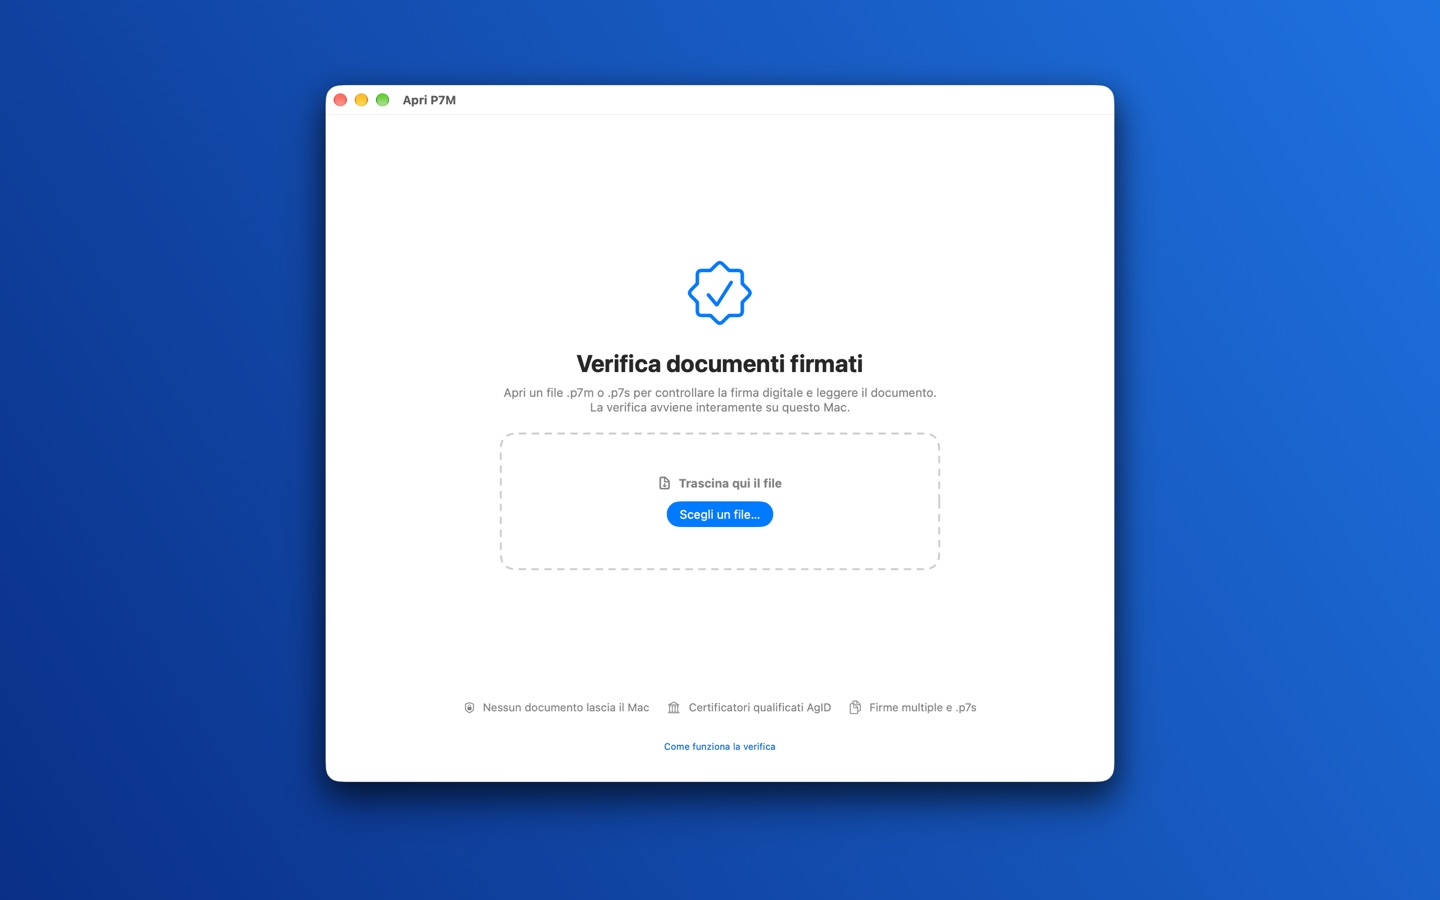
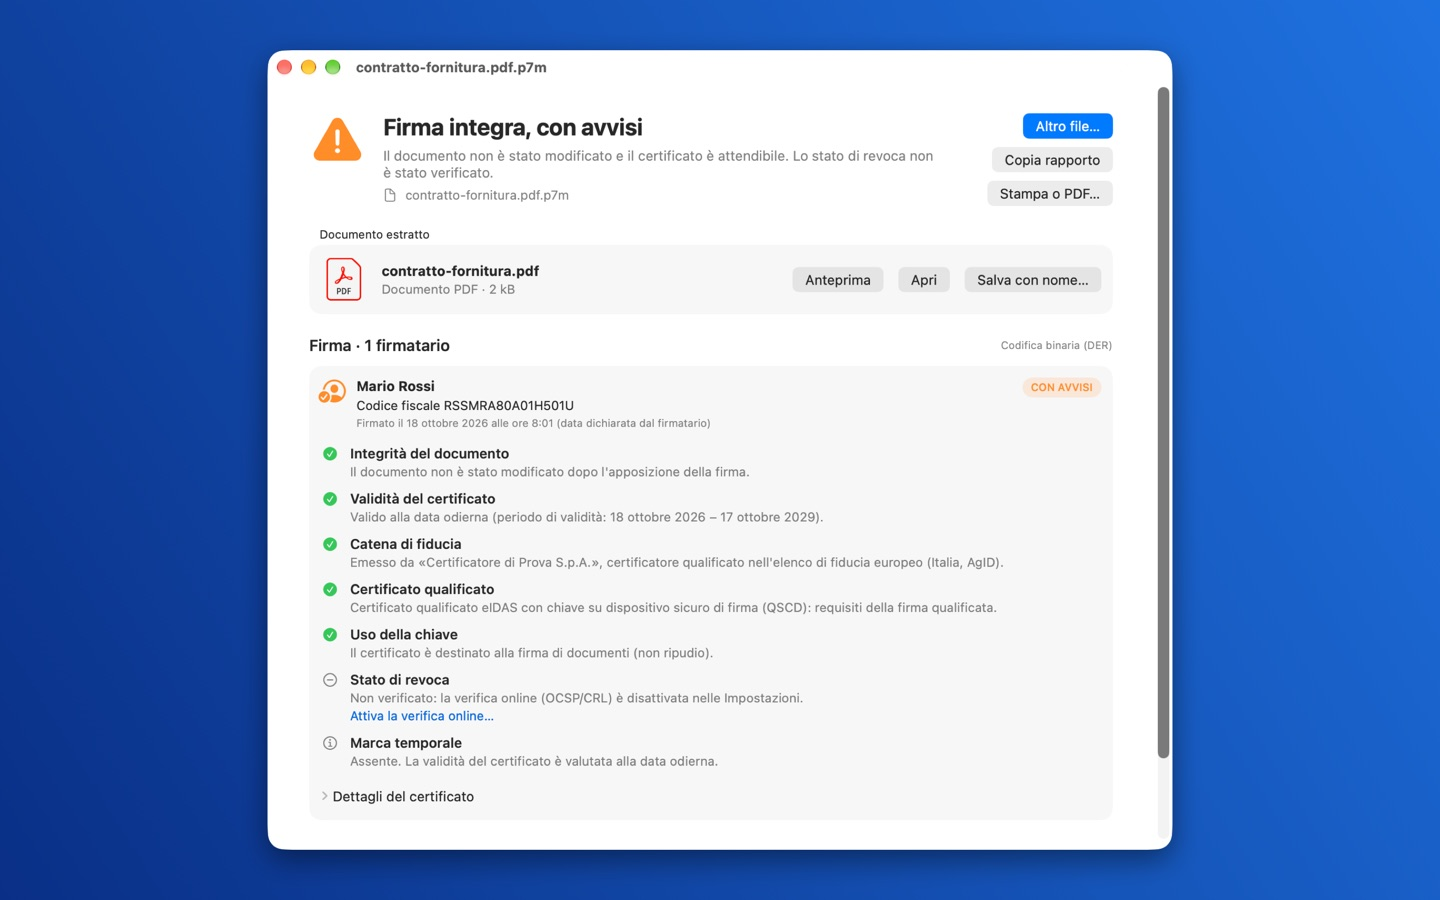
Apri P7M: screenshot di iPhone e iPad, immagine del Mac aggiornata

Changed region(s): [[0.1562, 0.0311, 0.8438, 0.9644]]

diff --git a/apri-p7m/fr/index.html b/apri-p7m/fr/index.html
@@ -44,6 +44,10 @@
 
   <h2>Sur iPhone et iPad</h2>
   <p>Touchez une pièce jointe .p7m dans Mail, Fichiers ou Messages : l'aperçu rapide affiche aussitôt le document contenu, avec le résultat de la signature en haut. Pour tous les contrôles et les détails du certificat, ouvrez le fichier dans Apri P7M avec Partager ; depuis Outlook, utilisez « Ouvrir dans… ». Sur iPad, vous pouvez aussi glisser le fichier dans la fenêtre.</p>
+  <div class="devices">
+    <img class="phone" src="../iphone.jpg" alt="Apri P7M sur iPhone : résultat de la vérification d'un contrat signé" loading="lazy">
+    <img class="tablet" src="../ipad.jpg" alt="Apri P7M sur iPad : facture électronique sous forme lisible" loading="lazy">
+  </div>
 
   <h2>Contrôles effectués</h2>
   <ul class="features">

diff --git a/apri-p7m/de/index.html b/apri-p7m/de/index.html
@@ -44,6 +44,10 @@
 
   <h2>Auf iPhone und iPad</h2>
   <p>Tippe in Mail, Dateien oder Nachrichten auf einen .p7m-Anhang: Die Übersicht zeigt sofort das enthaltene Dokument, oben mit dem Ergebnis der Signaturprüfung. Für alle Prüfungen und Zertifikatsdetails öffne die Datei über „Teilen“ in Apri P7M; in Outlook über „Öffnen in …“. Auf dem iPad kannst du die Datei auch ins Fenster ziehen.</p>
+  <div class="devices">
+    <img class="phone" src="../iphone.jpg" alt="Apri P7M auf dem iPhone: Prüfergebnis eines signierten Vertrags" loading="lazy">
+    <img class="tablet" src="../ipad.jpg" alt="Apri P7M auf dem iPad: elektronische Rechnung in lesbarer Form" loading="lazy">
+  </div>
 
   <h2>Durchgeführte Prüfungen</h2>
   <ul class="features">

diff --git a/apri-p7m/es/index.html b/apri-p7m/es/index.html
@@ -44,6 +44,10 @@
 
   <h2>En iPhone y iPad</h2>
   <p>Toca un adjunto .p7m en Mail, Archivos o Mensajes: la vista rápida muestra al instante el documento contenido, con el resultado de la firma arriba. Para todas las comprobaciones y los detalles del certificado, abre el archivo en Apri P7M con Compartir; desde Outlook usa «Abrir en…». En el iPad también puedes arrastrar el archivo a la ventana.</p>
+  <div class="devices">
+    <img class="phone" src="../iphone.jpg" alt="Apri P7M en iPhone: resultado de la verificación de un contrato firmado" loading="lazy">
+    <img class="tablet" src="../ipad.jpg" alt="Apri P7M en iPad: factura electrónica en forma legible" loading="lazy">
+  </div>
 
   <h2>Comprobaciones</h2>
   <ul class="features">

diff --git a/apri-p7m/index.html b/apri-p7m/index.html
@@ -44,6 +44,10 @@
 
   <h2>Su iPhone e iPad</h2>
   <p>Tocca un allegato .p7m in Mail, nell'app File o in Messaggi: l'anteprima rapida mostra subito il documento contenuto, con l'esito della firma in alto. Per tutti i controlli e i dettagli del certificato apri il file in Apri P7M con Condividi; da Outlook usa «Apri in…». Sull'iPad puoi anche trascinare il file nella finestra.</p>
+  <div class="devices">
+    <img class="phone" src="iphone.jpg" alt="Apri P7M su iPhone: esito della verifica di un contratto firmato" loading="lazy">
+    <img class="tablet" src="ipad.jpg" alt="Apri P7M su iPad: fattura elettronica in forma leggibile" loading="lazy">
+  </div>
 
   <h2>Controlli eseguiti</h2>
   <ul class="features">

diff --git a/apri-p7m/en/index.html b/apri-p7m/en/index.html
@@ -44,6 +44,10 @@
 
   <h2>On iPhone and iPad</h2>
   <p>Tap a .p7m attachment in Mail, Files or Messages: the Quick Look preview immediately shows the enclosed document, with the signature result at the top. For all checks and certificate details, open the file in Apri P7M with Share; from Outlook use “Open In…”. On iPad you can also drag the file into the window.</p>
+  <div class="devices">
+    <img class="phone" src="../iphone.jpg" alt="Apri P7M on iPhone: verification result for a signed contract" loading="lazy">
+    <img class="tablet" src="../ipad.jpg" alt="Apri P7M on iPad: electronic invoice in readable form" loading="lazy">
+  </div>
 
   <h2>Checks performed</h2>
   <ul class="features">
